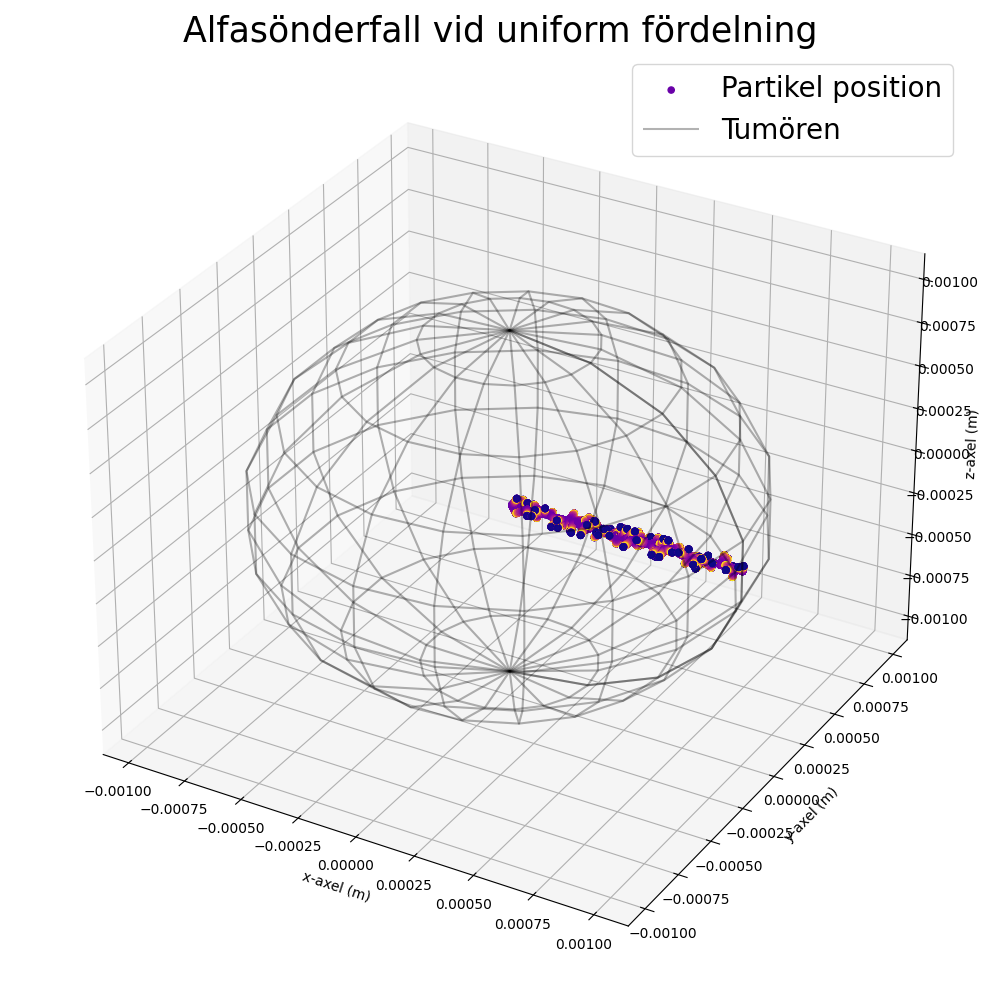
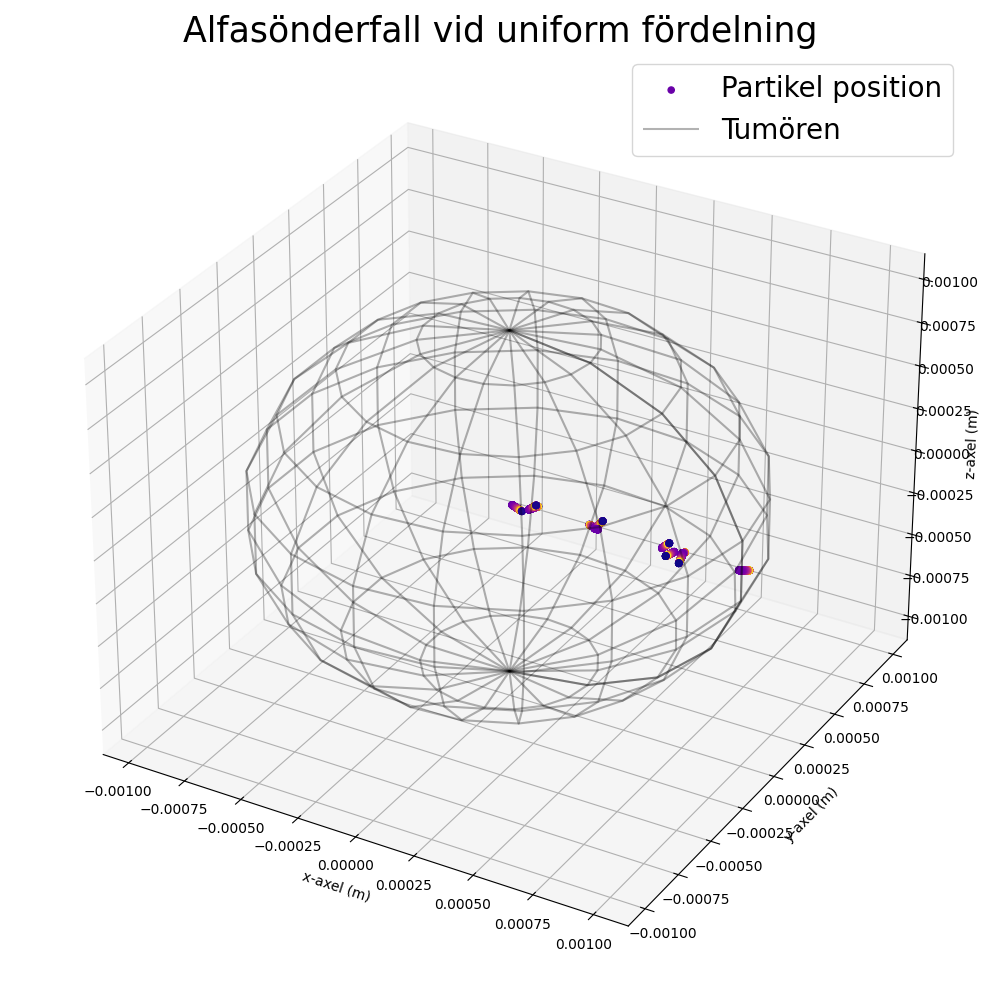
.

diff --git a/Martin/upg2_elektron_simulering.py b/Martin/upg2_elektron_simulering.py
@@ -89,6 +89,7 @@ def run_MC_elektron(iterationer, rho_medium, radie_partikel, stopping_power_data
     #   -----------------------------------
     #   Visualisera resultat i figur.
     #   -----------------------------------
+    """
     fig = plt.figure(figsize=(10, 10))
     ax = fig.add_subplot(projection='3d')
     ax.scatter(x_list, y_list, z_list, c=dos_list, cmap='plasma', label='Partikel position')
@@ -113,6 +114,7 @@ def run_MC_elektron(iterationer, rho_medium, radie_partikel, stopping_power_data
     plt.tight_layout()
     plt.savefig(fig_title)
     plt.show()
+    """
     return energideponering_summa
 
 
@@ -144,7 +146,7 @@ if __name__ == "__main__":
     iterationer = 10 ** 3
     dummy_iterationer = 3 * 10**2
 
-    energiförlust_faktor = 0.96  # Energi efter en kollision = 96% av föregående energin.
+    energiförlust_faktor = 0.97  # Energi efter en kollision = 96% av föregående energin.
 
     stopping_power_data = np.loadtxt(elektron_stopping_power_data)
     scatter_power_data = np.loadtxt(elektron_scatter_power_data)

diff --git a/Martin/upg2_alfa_simulering.py b/Martin/upg2_alfa_simulering.py
@@ -98,6 +98,7 @@ def run_MC_alpha(iterationer, rho_medium, radie_partikel, stopping_power_data, p
     #   -----------------------------------
     #   Visualisera resultat i figur.
     #   -----------------------------------
+    """
     fig = plt.figure(figsize=(10, 10))
     ax = fig.add_subplot(projection='3d')
     ax.scatter(x_list, y_list, z_list, c=dos_list, cmap='plasma', label='Partikel position')
@@ -122,6 +123,7 @@ def run_MC_alpha(iterationer, rho_medium, radie_partikel, stopping_power_data, p
     plt.tight_layout()
     plt.savefig(fig_title)
     plt.show()
+    """
     return energideponering_summa
 
 
@@ -150,7 +152,7 @@ if __name__ == "__main__":
     #   -----------------------------------
     #   Kör simuleringen med ingångsvärden.
     #   -----------------------------------
-    iterationer = 10 ** 2
+    iterationer = 10 ** 3
     dummy_iterationer = 10 ** 1
     max_antal_steg = 10 ** 3
 

diff --git a/Martin/Gammalt_eller_inte_relevant/kladd.py b/Martin/Gammalt_eller_inte_relevant/kladd.py
@@ -9,13 +9,24 @@ import numpy as np
 # print(0.96 **1000)
 
 
-
 from scipy.stats import sem
 
-#define dataset
-data = [107.2, 113.2, 112.4]
+# define dataset
+# data = [107.2, 113.2, 112.4]
 
-#calculate standard error of the mean
-print(sem(data))
+data_1 = [3.95, 4.06, 4.26]
+data_2 = [8.61, 8.32, 8.61]
 
-print(np.mean(data))
+# calculate standard error of the mean
+print('standardavvikelse')
+print(sem(data_1))
+print(sem(data_2))
+
+print('medelvärde')
+print(np.mean(data_1))
+print(np.mean(data_2))
+
+
+print(4.09 / 4.07)
+
+print(8.51 / 5.22)
